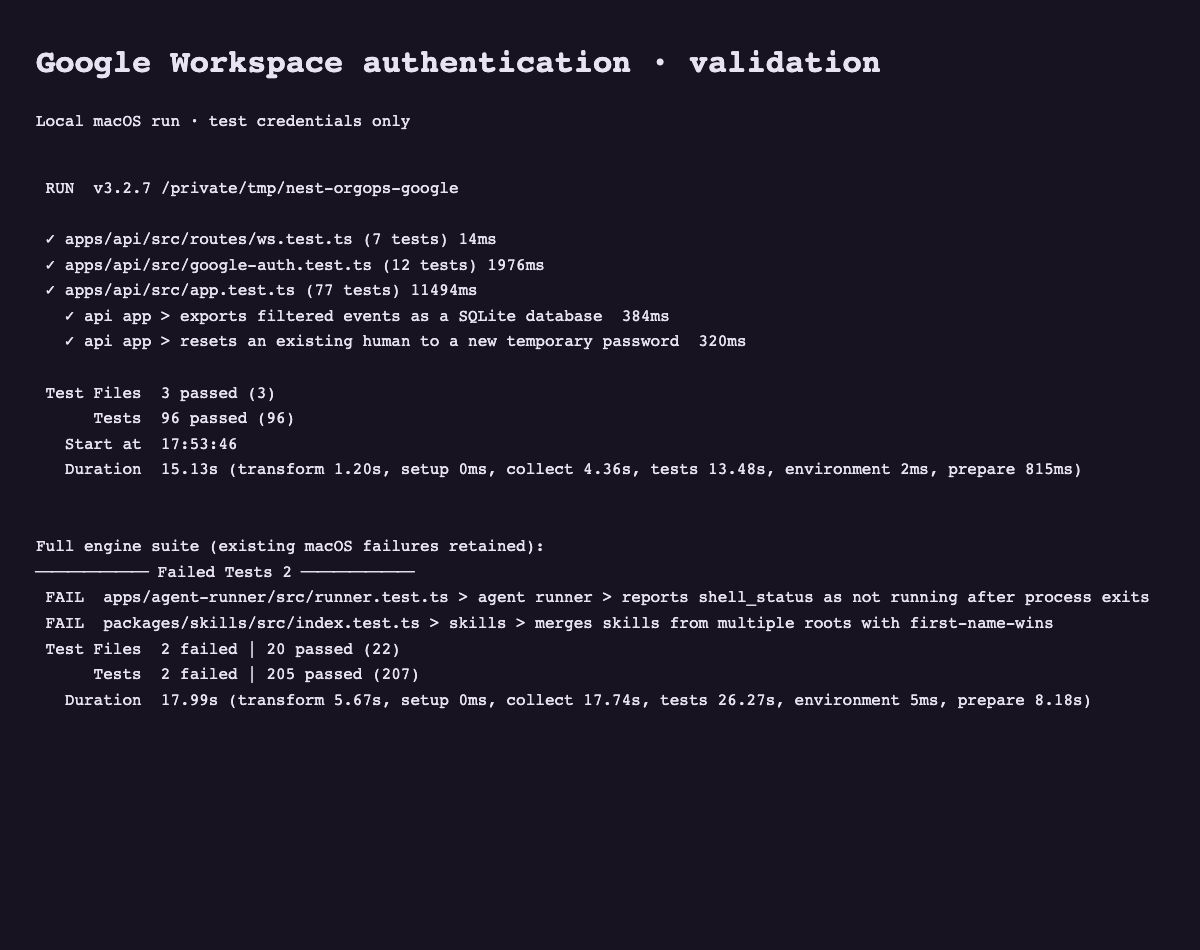
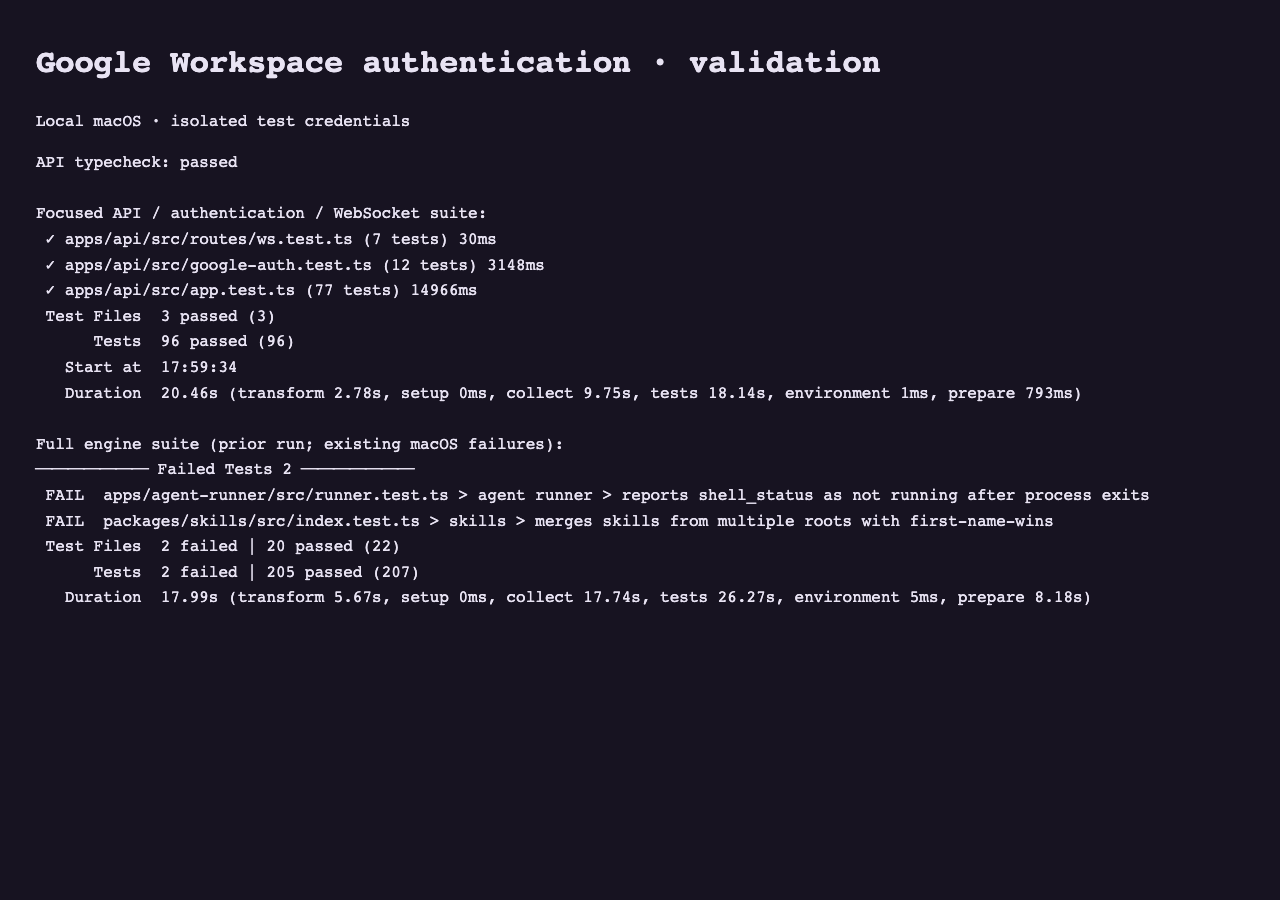
fix(auth): preserve anonymous websocket error responses

diff --git a/apps/api/src/routes/ws.ts b/apps/api/src/routes/ws.ts
@@ -77,7 +77,8 @@ export function registerWsRoutes(app: Hono<any>, deps: WsDeps) {
       };
       return {
         onMessage: (event: { data: string | Uint8Array }, ws: { send: (data: string) => void }) => {
-          if (!user || !validSession(ws)) return;
+          if (!user) return ws.send(JSON.stringify({type: "error", message: "Unauthorized"}));
+          if (!validSession(ws)) return;
           const message = JSON.parse(event.data.toString()) as WsMessage;
           if (message.type === "ping") {
             return send(ws, { type: "subscribed", topic: "pong" });
